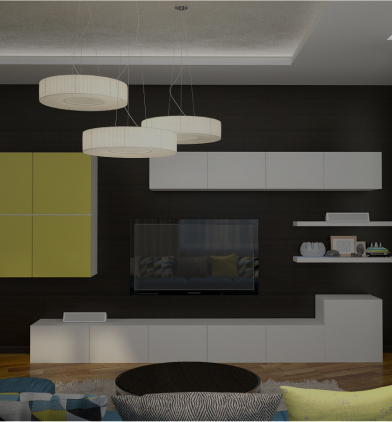
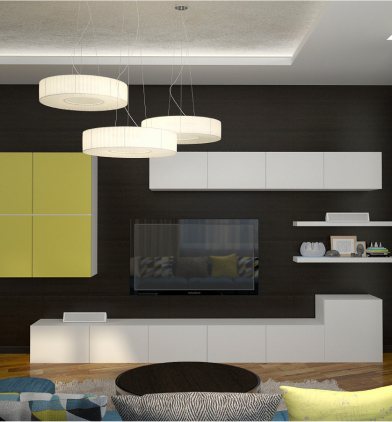
fix: delete dark-gray & add  blackout for design images

diff --git a/src/index.html b/src/index.html
@@ -207,7 +207,9 @@
         <div class="row">
           <div class="col">
             <div class="card design__card">
-              <img src="img/design/design-1.jpg" alt="Минимальный" class="card__image">
+              <div class="blackout">
+                <img src="img/design/design-1.jpg" alt="Минимальный" class="card__image">
+              </div>
               <div class="card__text">
                 <h3 class="card__title">Минимальный</h3>
                 <!-- /.card__title -->
@@ -232,7 +234,9 @@
           <!-- /.col -->
           <div class="col">
             <div class="card design__card">
-              <img src="img/design/design-2.jpg" alt="Стандартный" class="card__image">
+              <div class="blackout">
+              	<img src="img/design/design-2.jpg" alt="Стандартный" class="card__image">
+              </div>
               <div class="card__text">
                 <h3 class="card__title">Стандартный</h3>
                 <!-- /.card__title -->
@@ -263,7 +267,9 @@
           <!-- /.col -->
           <div class="col">
             <div class="card design__card">
-              <img src="img/design/design-3.jpg" alt="Полный" class="card__image">
+              <div class="blackout">
+                <img src="img/design/design-3.jpg" alt="Полный" class="card__image">
+              </div>
               <div class="card__text">
                 <h3 class="card__title">Полный</h3>
                 <!-- /.card__title -->

diff --git a/src/css/style.css b/src/css/style.css
@@ -400,7 +400,7 @@ img {
   font-family: "Yeseva One", cursive;
   font-weight: normal;
   font-size: 1.286rem;
-  color: #363636; }
+  color: #131313; }
 
 .card__list {
   padding: 0 0 0 1rem;
@@ -576,7 +576,7 @@ img {
     font-size: 1.429rem;
     line-height: 1.929rem;
     text-align: center;
-    color: #363636; }
+    color: #131313; }
   .design__pricetag {
     padding: 1.214rem 2.357rem;
     text-align: left; }
@@ -587,7 +587,20 @@ img {
     z-index: -1;
     width: 100%;
     height: 30.357rem;
-    background-color: #363636; }
+    background-color: #131313; }
+  .design .blackout {
+    width: 100%;
+    position: relative; }
+    .design .blackout::before {
+      content: '';
+      position: absolute;
+      top: 0;
+      left: 0;
+      width: 100%;
+      height: 100%;
+      background: rgba(0, 0, 0, 0.3); }
+  .design .card__image {
+    width: 100%; }
 
 @media screen and (max-width: 1200px) {
   html {
@@ -624,6 +637,8 @@ img {
       line-height: 1.667rem;
       color: #ffffff; }
     .design__dark-bg {
+      display: none; }
+    .design .blackout::before {
       display: none; }
   .row {
     flex-direction: column;

diff --git a/src/sass/templates/_design.sass b/src/sass/templates/_design.sass
@@ -12,7 +12,7 @@
     font-size: 1.429rem
     line-height: 1.929rem
     text-align: center
-    color: $dark-gray
+    color: $dark
 
   &__pricetag
     padding: 1.214rem 2.357rem
@@ -25,4 +25,20 @@
     z-index: -1
     width: 100%
     height: 30.357rem
-    background-color: $dark-gray
+    background-color: $dark
+
+  .blackout
+    width: 100%
+    position: relative
+
+    &::before
+      content: ''
+      position: absolute
+      top: 0
+      left: 0
+      width: 100%
+      height: 100%
+      background: rgba(0, 0, 0, 0.3)
+  
+  .card__image
+    width: 100%

diff --git a/src/sass/_settings.sass b/src/sass/_settings.sass
@@ -61,7 +61,7 @@ img
     font-family: $f-heading
     font-weight: normal
     font-size: 1.286rem
-    color: $dark-gray
+    color: $dark
 
   &__list
     padding: 0 0 0 1rem

diff --git a/src/sass/_media.sass b/src/sass/_media.sass
@@ -48,6 +48,10 @@
     &__dark-bg
       display: none
 
+    .blackout
+      &::before
+        display: none
+
   .row
     flex-direction: column
     align-items: center

diff --git a/src/sass/_variables.sass b/src/sass/_variables.sass
@@ -1,7 +1,6 @@
 $dark: #131313
 $light: #ffffff
 $primary: #E3B873
-$dark-gray: #363636
 $secondary: #959595
 
 $f-common: "Futura Book", sans-serif
